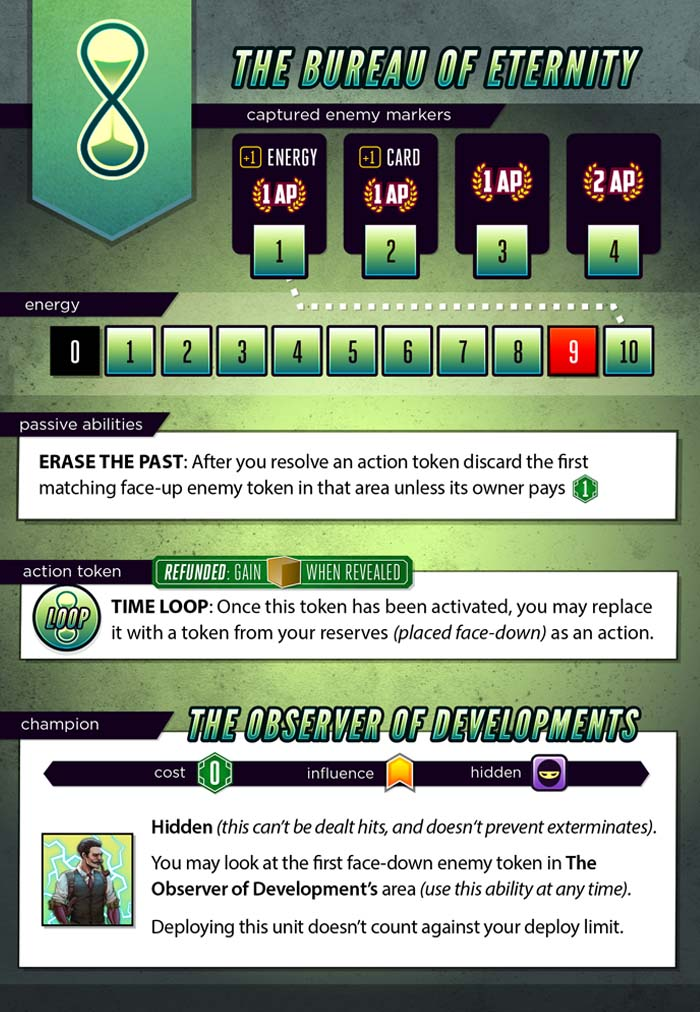
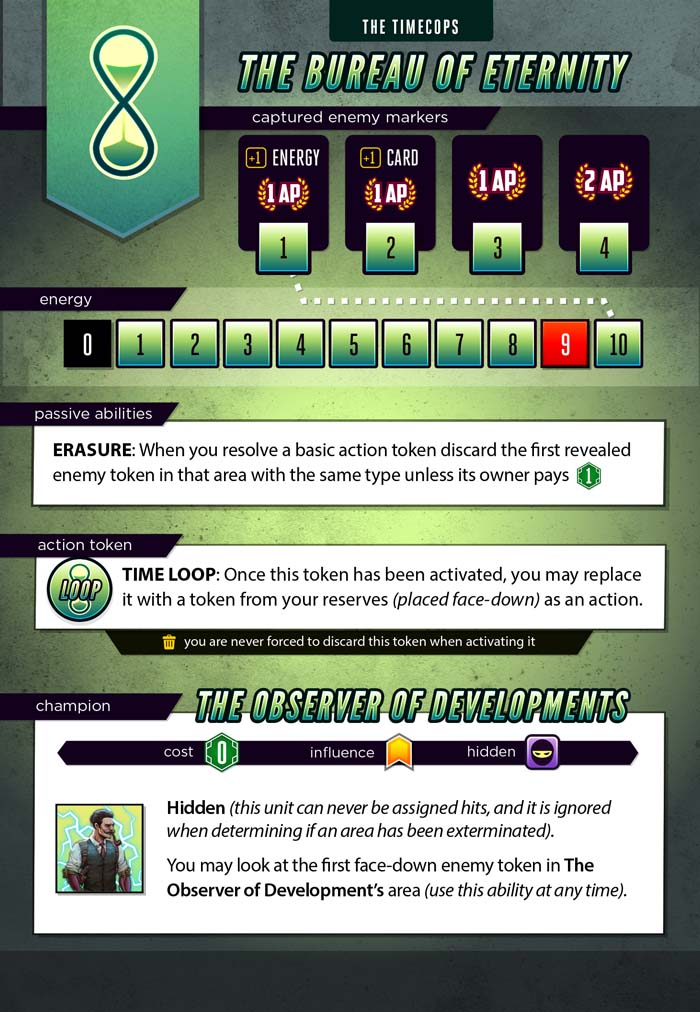
Nerf Bureau: Loop no longer payback, boss no longer free deploy limit

diff --git a/server/classes/factions/Bureau.js b/server/classes/factions/Bureau.js
@@ -17,7 +17,7 @@ class Bureau extends Faction {
         this.data.name = this.name;
         this.data.title = "The Bureau of Eternity";
         this.data.focusDescription = "Have the most tokens in many areas";
-        this.data.bonusDeploy = { type: 'champion', count : 1 };
+        //this.data.bonusDeploy = { type: 'champion', count : 1 };
 
         // track our skips used
         this.data.skips = {
@@ -37,7 +37,7 @@ class Bureau extends Faction {
                 influence: 1,
                 type: 'loop',
                 cost: 0,
-                resource: 1,
+                //resource: 1,
                 description: "Once this token has been activated, you may replace it with a (face down) token from your reserves as an action.",
                 req : "Passive token: this token may always be activated"
             }
